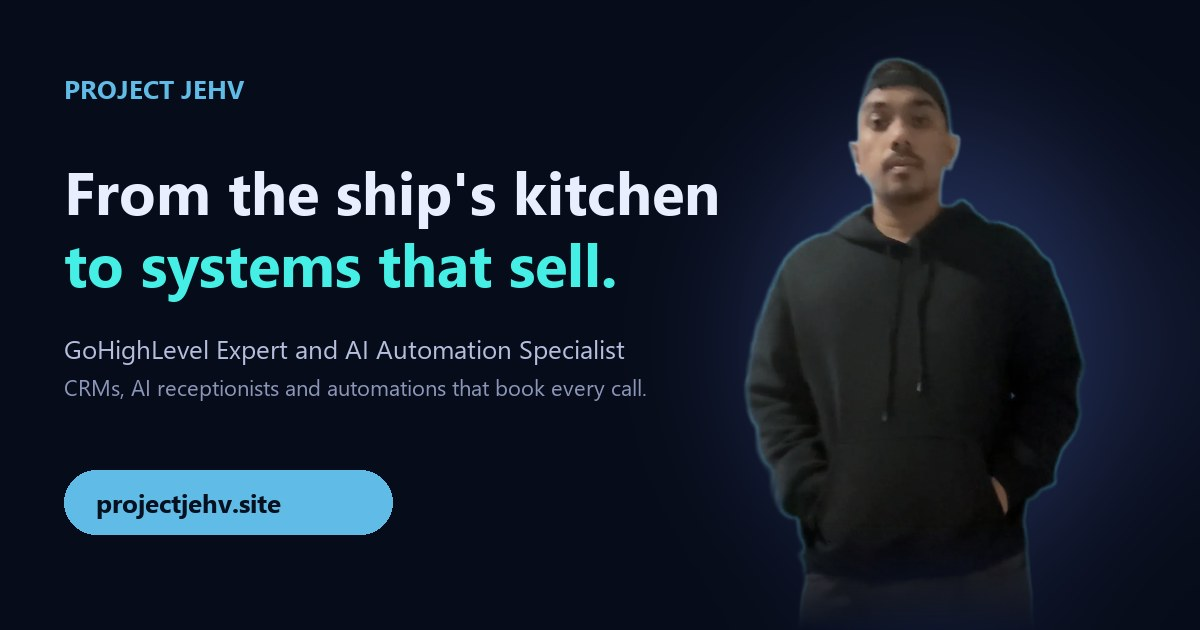
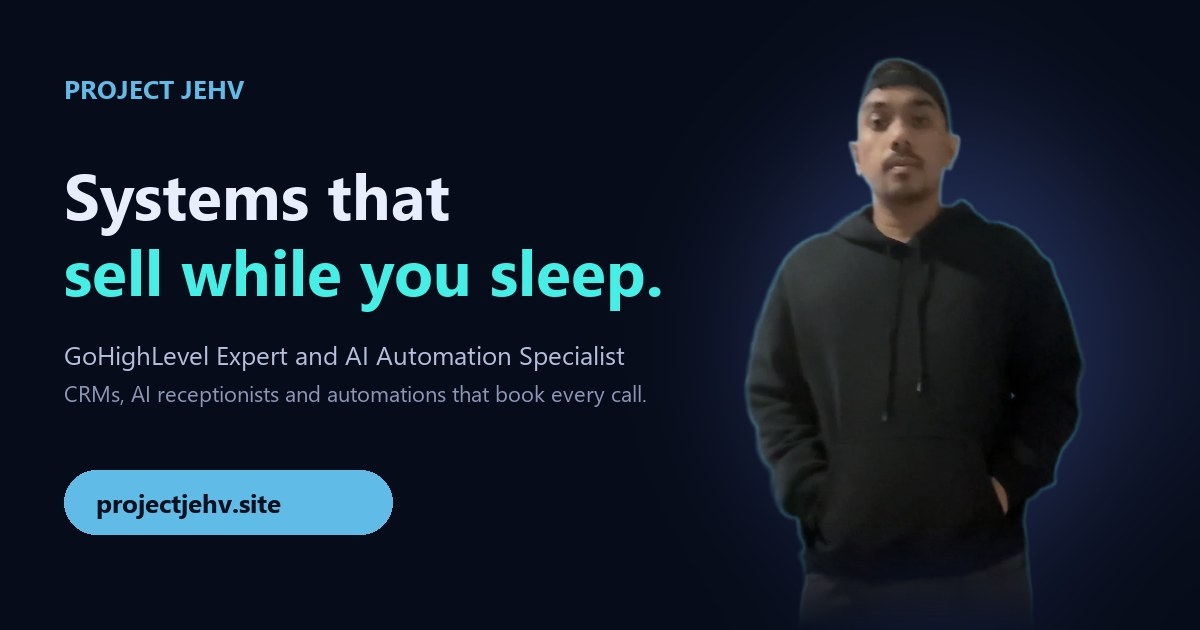
fix: final review fixes and client-focused copy
Orb no longer vanishes after resizes below the hero, canvas follows its box
on resize, brief one-hand tracking dropouts are interpolated, hash links land
on the right section, and sections stay visible if scripts fail. Copy drops the
build-tool and ship references.

Changed region(s): [[0.0308, 0.2714, 0.6167, 0.5127], [0.0308, 0.5429, 0.555, 0.6635]]

diff --git a/index.html b/index.html
@@ -52,7 +52,7 @@
 
       <div class="hero-copy beat-line" data-beat="front">
         <p class="eyebrow">// GoHighLevel Expert and AI Automation Specialist</p>
-        <h1>From the ship's kitchen to <em>systems that sell.</em></h1>
+        <h1>Systems that <em>sell while you sleep.</em></h1>
         <p class="lede">I build GoHighLevel CRMs, AI receptionists and automations that answer every lead, book every call, and never take a day off.</p>
         <a class="pill" href="#book">Book a free automation audit</a>
       </div>
@@ -73,29 +73,38 @@
     <section id="stats" class="sec stats" data-orb="side">
       <div class="wrap col-left">
         <p class="eyebrow" data-reveal>// What I do</p>
-        <h2 data-reveal>Ten years in ship kitchens taught me systems. <em>Now I build them for your business.</em></h2>
-        <p class="lede" data-reveal>GoHighLevel CRMs, AI agents, voice receptionists and automations. Built clean, documented, and handed over so they keep running without you.</p>
+        <h2 data-reveal>GoHighLevel and AI systems, <em>built to run without you.</em></h2>
+        <p class="lede" data-reveal>CRMs, AI agents, voice receptionists and automations. Built clean, documented, and handed over so your team can rely on them from day one.</p>
         <dl class="stat-grid">
           <div data-reveal><dt><span data-count="100" data-suffix="+">100+</span></dt><dd>workflows built</dd></div>
           <div data-reveal><dt><span data-count="20" data-suffix="+">20+</span></dt><dd>A2P approvals, 100% carrier approval</dd></div>
           <div data-reveal><dt><span data-count="2" data-suffix="+">2+</span></dt><dd>years of GoHighLevel and AI</dd></div>
-          <div data-reveal><dt><span data-count="10" data-suffix="+">10+</span></dt><dd>years as a cruise ship chef</dd></div>
+          <div data-reveal><dt><span data-count="10" data-suffix="+">10+</span></dt><dd>niche builds, from dental to real estate</dd></div>
         </dl>
         <div class="orb-fallback" aria-hidden="true"></div>
       </div>
     </section>
 
-    <section id="about" class="sec story" data-orb="corner">
-      <div class="wrap story-grid">
-        <figure class="story-photo" data-reveal>
-          <img src="assets/img/chef.webp" width="900" height="1200" loading="lazy" alt="Jose Vitug in chef whites with arms crossed, the Statue of Liberty and the city skyline behind him at night">
-          <figcaption>Royal Caribbean and Holland America, 10+ years at sea</figcaption>
-        </figure>
-        <div class="story-copy">
-          <p class="eyebrow" data-reveal>// The story</p>
-          <h2 data-reveal>Before automations, I ran <em>kitchen lines at sea.</em></h2>
-          <p data-reveal>Thousands of plates a night. Standard recipes, exact timing, zero excuses. In 2024 I moved into tech and found the thing I loved most in the kitchen: systems that work every single time.</p>
-          <p data-reveal>That is how I build in GoHighLevel. Every workflow has a recipe, and every lead gets served on time.</p>
+    <section id="about" class="sec process" data-orb="corner">
+      <div class="wrap">
+        <p class="eyebrow" data-reveal>// How we work together</p>
+        <h2 data-reveal>Clear steps, <em>no surprises.</em></h2>
+        <div class="cards three">
+          <article class="card" data-reveal>
+            <p class="tag">01 · Audit</p>
+            <h3>Find the busywork</h3>
+            <p>A free discovery call to map your leads, your tools, and the manual work eating your week.</p>
+          </article>
+          <article class="card" data-reveal>
+            <p class="tag">02 · Build</p>
+            <h3>Build and test it</h3>
+            <p>I design and build the system in GoHighLevel, n8n or Zapier, and test it end to end before anything goes live.</p>
+          </article>
+          <article class="card" data-reveal>
+            <p class="tag">03 · Hand over</p>
+            <h3>Your team owns it</h3>
+            <p>You get SOPs, Loom walkthroughs and a clean handover, so the system keeps working long after launch.</p>
+          </article>
         </div>
       </div>
     </section>
@@ -173,14 +182,13 @@
     <section id="brain" class="sec brain" data-orb="graph">
       <div class="wrap col-left">
         <p class="eyebrow" data-reveal>// How I work</p>
-        <h2 data-reveal>My second brain runs on <em>Claude Code.</em></h2>
-        <p data-reveal>Every client lives in its own folder with its own rules, SOPs and progress log. An Obsidian second brain, mapped with Graphify, links 38 ideas across 7 areas of my work, so nothing gets lost between calls.</p>
+        <h2 data-reveal>An AI second brain <em>keeps every project on track.</em></h2>
+        <p data-reveal>Every client gets its own workspace with its own rules, SOPs and progress log. My second brain links 38 ideas across 7 areas of my work, so nothing gets lost between calls.</p>
         <p data-reveal>The orb you have been following is that map.</p>
         <ul class="legend" data-reveal>
           <li style="--c:#60BCE7">Career and brand</li><li style="--c:#AAA4EF">Events client</li><li style="--c:#46EFE6">Franchise client</li>
-          <li style="--c:#566FC9">Photography client</li><li style="--c:#60BCE7">GHL standards</li><li style="--c:#AAA4EF">Meta Ads</li><li style="--c:#46EFE6">Claude workflow</li>
+          <li style="--c:#566FC9">Photography client</li><li style="--c:#60BCE7">GHL standards</li><li style="--c:#AAA4EF">Meta Ads</li><li style="--c:#46EFE6">AI workflow</li>
         </ul>
-        <p class="built" data-reveal>And this site? <em>Built with Claude Code.</em></p>
       </div>
       <svg class="graph-fallback" aria-hidden="true"></svg>
     </section>
@@ -222,7 +230,7 @@
 
   <footer class="footer">
     <span class="wordmark">PROJECT JEHV</span>
-    <span>© 2026 Jose Vitug. Built with Claude Code.</span>
+    <span>© 2026 Jose Vitug</span>
   </footer>
 
   <script src="https://assets.calendly.com/assets/external/widget.js" async></script>

diff --git a/js/main.js b/js/main.js
@@ -9,6 +9,9 @@ import { initReveals } from './reveal.js';
 import graph from './graph-data.js';
 
 gsap.registerPlugin(ScrollTrigger);
+// ScrollTrigger's own resize refresh does not always fire (seen with viewport changes mid-pin), so refresh ourselves.
+let resizeTimer = 0;
+addEventListener('resize', () => { clearTimeout(resizeTimer); resizeTimer = setTimeout(() => ScrollTrigger.refresh(), 200); });
 
 const mobile = matchMedia('(max-width: 767px)').matches;
 // ?still previews the reduced-motion version without changing OS settings
@@ -18,8 +21,13 @@ const clamp01 = v => Math.min(1, Math.max(0, v));
 const easeOut = t => 1 - (1 - t) ** 3;
 const ORB = mobile ? 64 : 96; // orb diameter in Jose's hands, px
 
+// Sections fade in only once this module runs; if a CDN import fails they simply stay visible.
+document.documentElement.classList.add('reveal');
+initReveals(document, { reducedMotion });
+
+let lenis = null;
 if (!reducedMotion) {
-  const lenis = new Lenis({ lerp: 0.09 });
+  lenis = new Lenis({ lerp: 0.09 });
   lenis.on('scroll', ScrollTrigger.update);
   gsap.ticker.add(t => lenis.raf(t * 1000));
   gsap.ticker.lagSmoothing(0);
@@ -30,7 +38,6 @@ const turn = await initTurn(hero, { mobile, reducedMotion });
 // Reduced motion gets the calm static glows instead of a moving orb.
 const orb = reducedMotion ? null : createOrb({ mobile, reducedMotion, graph });
 if (!orb) { document.documentElement.classList.add('no-webgl'); drawGraphSvg(document.querySelector('.graph-fallback')); }
-initReveals(document, { reducedMotion });
 
 // Every "Book a call" link opens the Calendly pop-up over the page (falls back to the link if Calendly did not load).
 const CALENDLY = 'https://calendly.com/josev2g-va/discovery-call?hide_gdpr_banner=1';
@@ -45,12 +52,13 @@ document.addEventListener('click', e => {
 const rawHands = await (await fetch('assets/frames/hands.json')).json();
 const hands = smoothHands(rawHands, 5);
 // the raised hand, for the last beat where one hand presents and the other drops
-const upper = smoothHands(rawHands.map(({ l, r }) => ({ l: l && r ? (l[1] < r[1] ? l : r) : l || r, r: null })), 7);
+// (only two-hand frames count; with one hand we cannot tell which one is raised, so those frames are interpolated)
+const upper = smoothHands(rawHands.map(({ l, r }) => ({ l: l && r ? (l[1] < r[1] ? l : r) : null, r: null })), 7);
 const cards = [...hero.querySelectorAll('.flow-card')];
 const ORDER = ['front', 'turn', 'back', 'cupped', 'palms', 'reach', 'frame'];
 let lastBeat = 'front';
 
-function heroFrame(frame) {
+function heroFrame(frame, active = true) {
   const m = turn.manifest, beat = activeBeat(frame, m)?.id ?? 'frame', idx = ORDER.indexOf(beat);
   const bp = id => beatProgress(frame, id, m);
   const h = hands[frame], u = upper[frame], rect = turn.getImageRect();
@@ -62,9 +70,10 @@ function heroFrame(frame) {
   else if (beat === 'palms') size = lerp(18, ORB, easeOut(bp('palms')));
   else if (beat === 'reach' || beat === 'frame') size = ORB * (1 + 0.15 * toUpper);
   const x = rect.x + hx * rect.w, y = rect.y + hy * rect.h - size * 0.55 * toUpper; // hover just above the raised palm
-  if (orb && h) { orb.setAnchor(x, y, size); orb.setState('hands'); }
+  // only the pinned hero owns the orb; further down, the section triggers do
+  if (orb && h && active) { orb.setAnchor(x, y, size); orb.setState('hands'); }
 
-  if (orb && beat !== lastBeat) {
+  if (orb && active && beat !== lastBeat) {
     if (beat === 'cupped' && lastBeat === 'back') orb.burst(0.25);
     if (beat === 'palms' && lastBeat === 'cupped') orb.burst(1);
   }
@@ -92,6 +101,19 @@ if (orb) stops.forEach((sec, i) => {
   const from = i === 0 ? 'hands' : stops[i - 1].dataset.orb, to = sec.dataset.orb;
   ScrollTrigger.create({ trigger: sec, start: 'top 85%', end: 'top 25%', onUpdate: st => orb.setState(to, st.progress, from) });
 });
+
+// Links like /#book from the All Work page: the browser jumped before the 400% hero pin existed, so jump again now.
+const target = location.hash.length > 1 && document.getElementById(decodeURIComponent(location.hash.slice(1)));
+if (target) {
+  const go = () => {
+    ScrollTrigger.refresh();
+    const y = target.getBoundingClientRect().top + scrollY;
+    lenis?.resize(); // Lenis measured the page before the pin spacer existed and would stop short
+    lenis ? lenis.scrollTo(y, { immediate: true, force: true }) : scrollTo(0, y);
+  };
+  // the browser does its own (wrong) hash jump at load, so go after it
+  document.readyState === 'complete' ? setTimeout(go) : addEventListener('load', () => setTimeout(go), { once: true });
+}
 
 function drawGraphSvg(svg) {
   if (!svg) return;

diff --git a/css/main.css b/css/main.css
@@ -83,19 +83,13 @@ em { font-style: normal; background: var(--grad); -webkit-background-clip: text;
 .sec p { color: #B4BEDD; }
 .sec p + p { margin-top: 14px; }
 
-[data-reveal] { opacity: 0; transform: translateY(28px); transition: opacity .8s ease, transform .9s cubic-bezier(.2, .7, .2, 1); }
-[data-reveal].in { opacity: 1; transform: none; }
+.reveal [data-reveal] { opacity: 0; transform: translateY(28px); transition: opacity .8s ease, transform .9s cubic-bezier(.2, .7, .2, 1); }
+.reveal [data-reveal].in { opacity: 1; transform: none; }
 
 .stats { min-height: 100vh; display: flex; align-items: center; }
 .stat-grid { display: grid; grid-template-columns: repeat(2, minmax(0, 1fr)); gap: 28px 40px; margin-top: 44px; }
 .stat-grid dt { font: 700 clamp(44px, 5vw, 68px)/1 var(--head); background: var(--grad); -webkit-background-clip: text; background-clip: text; color: transparent; }
 .stat-grid dd { color: var(--mute); font-size: 14px; margin-top: 6px; }
-
-.story-grid { display: grid; grid-template-columns: minmax(0, 5fr) minmax(0, 6fr); gap: clamp(32px, 6vw, 96px); align-items: center; }
-.story-photo { position: relative; }
-.story-photo img { width: 100%; height: auto; border-radius: 22px; display: block; filter: saturate(.9) contrast(1.05);
-  box-shadow: 0 30px 80px rgba(0, 0, 0, .5), 0 0 0 1px rgba(96, 188, 231, .18), 0 0 60px rgba(86, 111, 201, .25); }
-.story-photo figcaption { font: 400 12px var(--mono); color: var(--mute); margin-top: 14px; letter-spacing: .06em; }
 
 .cards { display: grid; gap: 20px; margin-top: 44px; }
 .cards.three { grid-template-columns: repeat(3, minmax(0, 1fr)); }
@@ -113,7 +107,6 @@ em { font-style: normal; background: var(--grad); -webkit-background-clip: text;
 .brain { min-height: 120vh; display: flex; align-items: center; }
 .legend { list-style: none; display: flex; flex-wrap: wrap; gap: 10px 18px; margin-top: 28px; font: 400 12px var(--mono); color: var(--mute); }
 .legend li::before { content: ''; display: inline-block; width: 8px; height: 8px; border-radius: 50%; margin-right: 8px; background: var(--c); box-shadow: 0 0 10px var(--c); }
-.built { margin-top: 32px !important; font: 700 22px var(--head); color: var(--ink) !important; }
 
 .marquee { overflow: hidden; border-block: 1px solid rgba(96, 188, 231, .12); padding: 22px 0; position: relative; z-index: 2; background: rgba(7, 12, 26, .6); }
 .marquee .track { display: flex; width: max-content; animation: marquee 40s linear infinite; }
@@ -175,7 +168,7 @@ body.zoom-open { overflow: hidden; }
   .cards.three, .cards.grid { grid-template-columns: repeat(2, minmax(0, 1fr)); }
 }
 @media (max-width: 767px) {
-  .story-grid, .cards.three, .cards.grid, .cards.two { grid-template-columns: 1fr; }
+  .cards.three, .cards.grid, .cards.two { grid-template-columns: 1fr; }
   .gallery.wide { grid-template-columns: repeat(2, minmax(0, 1fr)); }
   .stat-grid { gap: 22px 20px; }
   .brain { padding-bottom: 70vh; align-items: flex-start; }
@@ -183,7 +176,7 @@ body.zoom-open { overflow: hidden; }
   .no-webgl .graph-fallback { position: relative; right: auto; top: auto; transform: none; width: 100%; height: auto; aspect-ratio: 1; }
 }
 @media (prefers-reduced-motion: reduce) {
-  [data-reveal] { opacity: 1; transform: none; transition: none; }
+  .reveal [data-reveal] { opacity: 1; transform: none; transition: none; }
   .marquee .track { animation: none; }
 }
 

diff --git a/js/graph-data.js b/js/graph-data.js
@@ -1,2 +1,2 @@
 // Generated by tools/sanitize_graph.py: structure of Jose's second brain graph, no labels.
-export default {"nodes":[{"id":0,"c":0},{"id":1,"c":0},{"id":2,"c":0},{"id":3,"c":6},{"id":4,"c":0},{"id":5,"c":0},{"id":6,"c":0},{"id":7,"c":0},{"id":8,"c":0},{"id":9,"c":0},{"id":10,"c":6},{"id":11,"c":6},{"id":12,"c":1},{"id":13,"c":1},{"id":14,"c":6},{"id":15,"c":1},{"id":16,"c":1},{"id":17,"c":4},{"id":18,"c":3},{"id":19,"c":4},{"id":20,"c":3},{"id":21,"c":3},{"id":22,"c":3},{"id":23,"c":4},{"id":24,"c":3},{"id":25,"c":4},{"id":26,"c":2},{"id":27,"c":2},{"id":28,"c":2},{"id":29,"c":2},{"id":30,"c":2},{"id":31,"c":2},{"id":32,"c":4},{"id":33,"c":2},{"id":34,"c":2},{"id":35,"c":2},{"id":36,"c":5},{"id":37,"c":4}],"edges":[[1,22],[27,28],[36,28],[34,28],[13,16],[20,24],[21,24],[10,14],[11,14],[31,30],[12,15],[18,22],[33,35],[26,35],[29,28],[25,23],[19,22],[37,30],[32,30],[17,15],[9,7],[14,30],[14,15],[14,22],[14,35],[14,23],[14,5],[14,16],[14,7],[14,8],[3,14],[3,5],[3,6],[30,15],[30,22],[30,35],[30,28],[30,23],[30,5],[30,6],[15,22],[15,23],[15,5],[15,16],[15,6],[22,23],[22,5],[22,24],[22,6],[22,7],[35,28],[35,23],[28,23],[23,5],[23,16],[23,24],[23,7],[4,14],[4,3],[4,30],[4,15],[4,22],[4,35],[4,28],[4,23],[4,5],[4,16],[4,24],[4,6],[4,7],[4,8],[5,6],[5,7],[5,8],[6,7],[6,8],[7,8],[0,7],[1,8],[2,8],[26,27],[36,37],[32,35],[34,35],[13,17],[21,25]],"clusters":["Career and brand","Events client","Franchise client","Photography client","GHL standards","Meta Ads","Claude workflow"]};
+export default {"nodes":[{"id":0,"c":0},{"id":1,"c":0},{"id":2,"c":0},{"id":3,"c":6},{"id":4,"c":0},{"id":5,"c":0},{"id":6,"c":0},{"id":7,"c":0},{"id":8,"c":0},{"id":9,"c":0},{"id":10,"c":6},{"id":11,"c":6},{"id":12,"c":1},{"id":13,"c":1},{"id":14,"c":6},{"id":15,"c":1},{"id":16,"c":1},{"id":17,"c":4},{"id":18,"c":3},{"id":19,"c":4},{"id":20,"c":3},{"id":21,"c":3},{"id":22,"c":3},{"id":23,"c":4},{"id":24,"c":3},{"id":25,"c":4},{"id":26,"c":2},{"id":27,"c":2},{"id":28,"c":2},{"id":29,"c":2},{"id":30,"c":2},{"id":31,"c":2},{"id":32,"c":4},{"id":33,"c":2},{"id":34,"c":2},{"id":35,"c":2},{"id":36,"c":5},{"id":37,"c":4}],"edges":[[1,22],[27,28],[36,28],[34,28],[13,16],[20,24],[21,24],[10,14],[11,14],[31,30],[12,15],[18,22],[33,35],[26,35],[29,28],[25,23],[19,22],[37,30],[32,30],[17,15],[9,7],[14,30],[14,15],[14,22],[14,35],[14,23],[14,5],[14,16],[14,7],[14,8],[3,14],[3,5],[3,6],[30,15],[30,22],[30,35],[30,28],[30,23],[30,5],[30,6],[15,22],[15,23],[15,5],[15,16],[15,6],[22,23],[22,5],[22,24],[22,6],[22,7],[35,28],[35,23],[28,23],[23,5],[23,16],[23,24],[23,7],[4,14],[4,3],[4,30],[4,15],[4,22],[4,35],[4,28],[4,23],[4,5],[4,16],[4,24],[4,6],[4,7],[4,8],[5,6],[5,7],[5,8],[6,7],[6,8],[7,8],[0,7],[1,8],[2,8],[26,27],[36,37],[32,35],[34,35],[13,17],[21,25]],"clusters":["Career and brand","Events client","Franchise client","Photography client","GHL standards","Meta Ads","AI workflow"]};

diff --git a/js/turn.js b/js/turn.js
@@ -25,7 +25,7 @@ export async function initTurn(section, { mobile, reducedMotion }) {
   const listeners = [];
   const slow = new URLSearchParams(location.search).has('slow');
   // target = frame the scroll asks for; shown = frame actually drawn (they differ while frames load)
-  let target = 0, shown = -1, rect = { x: 0, y: 0, w: 0, h: 0 }, beatId = null;
+  let target = 0, shown = -1, rect = { x: 0, y: 0, w: 0, h: 0 }, beatId = null, trigger = null;
 
   const url = j => `assets/frames/${kind}/f_${String(j).padStart(3, '0')}.webp`;
 
@@ -46,7 +46,8 @@ export async function initTurn(section, { mobile, reducedMotion }) {
     ctx.drawImage(img, rect.x, rect.y, rect.w, rect.h);
     shown = f;
     setBeat();
-    for (const cb of listeners) cb(shown);
+    // active = the hero is pinned on screen; resizes and late frames also redraw while the visitor is further down the page
+    for (const cb of listeners) cb(shown, trigger?.isActive ?? false);
   }
 
   function setBeat() {
@@ -60,13 +61,14 @@ export async function initTurn(section, { mobile, reducedMotion }) {
   imgs[0] = await loadImage(url(0));
   if (imgs[0]) loaded[0] = 1;
   resize();
-  addEventListener('resize', resize);
+  // the pin gives the section a fixed size and only updates it on ScrollTrigger's refresh, so watch the canvas box itself
+  new ResizeObserver(resize).observe(canvas);
 
   if (reducedMotion) {
     section.classList.add('still');
     for (const el of lines) el.classList.add('on');
   } else {
-    ScrollTrigger.create({
+    trigger = ScrollTrigger.create({
       trigger: section, start: 'top top', end: PIN_LENGTH, pin: true,
       onUpdate: st => {
         target = progressToFrame(st.progress, manifest.count);

diff --git a/js/beats.js b/js/beats.js
@@ -49,13 +49,18 @@ export function fitContain(sw, sh, dw, dh, anchorY = 1) {
   return { x: (dw - w) / 2, y: (dh - h) * anchorY, w, h };
 }
 
+// A one-hand frame this close to two-hand frames on both sides is a tracking dropout, not a real pose.
+const DROPOUT = 4;
+
 // Per-frame orb anchor from raw hand detections: midpoint of the hands seen,
-// gaps filled linearly (ends copy the nearest seen frame), then a centered moving average.
+// gaps (and brief one-hand dropouts) filled linearly (ends copy the nearest seen frame), then a centered moving average.
 export function smoothHands(raw, win = 5) {
-  const pts = raw.map(({ l, r }) => {
+  const both = raw.map(({ l, r }) => !!(l && r));
+  const near = (i, dir) => { for (let k = 1; k <= DROPOUT; k++) if (both[i + dir * k]) return true; return false; };
+  const pts = raw.map(({ l, r }, i) => {
     if (l && r) return { x: (l[0] + r[0]) / 2, y: (l[1] + r[1]) / 2, spread: Math.hypot(l[0] - r[0], l[1] - r[1]) };
     const h = l || r;
-    return h ? { x: h[0], y: h[1], spread: 0 } : null;
+    return h && !(near(i, -1) && near(i, 1)) ? { x: h[0], y: h[1], spread: 0 } : null;
   });
   const seen = pts.flatMap((p, i) => (p ? [i] : []));
   if (!seen.length) return pts;

diff --git a/tests/beats.test.js b/tests/beats.test.js
@@ -56,3 +56,14 @@ test('drawnFrame is the frame actually on screen, in desktop frame space', () =>
   assert.equal(drawnFrame(17, l, 2), 8);                      // mobile: file 4 = desktop frame 8
   assert.equal(drawnFrame(3, new Uint8Array(10), 1), -1);     // nothing loaded yet
 });
+
+test('smoothHands treats a brief one-hand dropout as a gap', () => {
+  const two = x => ({ l: [x - 0.1, 0.5], r: [x + 0.1, 0.5] });
+  const raw = [two(0.5), { l: [0.2, 0.5], r: null }, { l: [0.2, 0.5], r: null }, two(0.8)];
+  assert.deepEqual(smoothHands(raw, 1).map(p => +p.x.toFixed(3)), [0.5, 0.6, 0.7, 0.8]);
+});
+
+test('smoothHands keeps a long one-hand stretch (a real reach)', () => {
+  const raw = Array.from({ length: 12 }, () => ({ l: null, r: [0.3, 0.4] }));
+  assert.ok(smoothHands(raw, 1).every(p => p.x === 0.3 && p.y === 0.4));
+});

diff --git a/tests/site.test.js b/tests/site.test.js
@@ -24,3 +24,11 @@ test('no client names anywhere in tracked files', () => {
     for (const n of names) assert.ok(!t.includes(n.toLowerCase()), `${n} found in ${f}`);
   }
 });
+
+test('pages do not say how the site was built or lead with the ship story', () => {
+  for (const f of ['index.html', 'work/index.html', '404.html'].filter(existsSync)) {
+    const t = readFileSync(f, 'utf8');
+    assert.doesNotMatch(t, /built (with|in|on) claude/i, f);
+    assert.doesNotMatch(t, /ship's kitchen|ship kitchens|cruise ship|kitchen lines/i, f);
+  }
+});

diff --git a/tests/graph.test.js b/tests/graph.test.js
@@ -14,5 +14,5 @@ test('graph references are valid', () => {
 
 test('graph carries structure only, no labels', () => {
   for (const node of graph.nodes) assert.deepEqual(Object.keys(node).sort(), ['c', 'id']);
-  assert.deepEqual(graph.clusters, ['Career and brand', 'Events client', 'Franchise client', 'Photography client', 'GHL standards', 'Meta Ads', 'Claude workflow']);
+  assert.deepEqual(graph.clusters, ['Career and brand', 'Events client', 'Franchise client', 'Photography client', 'GHL standards', 'Meta Ads', 'AI workflow']);
 });

diff --git a/js/work.js b/js/work.js
@@ -42,5 +42,6 @@ export function initZoom(root) {
   stage.addEventListener('pointerup', () => { drag = null; });
 }
 
+document.documentElement.classList.add('reveal');
 initReveals(document, { reducedMotion: matchMedia('(prefers-reduced-motion: reduce)').matches });
 initZoom(document);

diff --git a/work/index.html b/work/index.html
@@ -145,7 +145,7 @@
   </main>
   <footer class="footer">
     <span class="wordmark">PROJECT JEHV</span>
-    <span>© 2026 Jose Vitug. Built with Claude Code.</span>
+    <span>© 2026 Jose Vitug</span>
   </footer>
 </body>
 </html>

diff --git a/tools/sanitize_graph.py b/tools/sanitize_graph.py
@@ -6,7 +6,7 @@ import argparse, json
 from pathlib import Path
 
 ROOT = Path(__file__).resolve().parent.parent
-CLUSTERS = ["Career and brand", "Events client", "Franchise client", "Photography client", "GHL standards", "Meta Ads", "Claude workflow"]
+CLUSTERS = ["Career and brand", "Events client", "Franchise client", "Photography client", "GHL standards", "Meta Ads", "AI workflow"]
 # graphify community -> generic cluster (communities 3, 4 and 5 are all the franchise client)
 COMMUNITY = {0: 0, 1: 1, 2: 3, 3: 2, 4: 2, 5: 2, 6: 5}
 # node id fragments that belong to a cross-client cluster instead of their community
